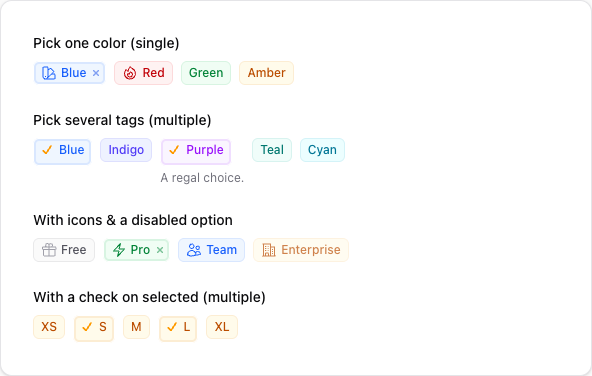
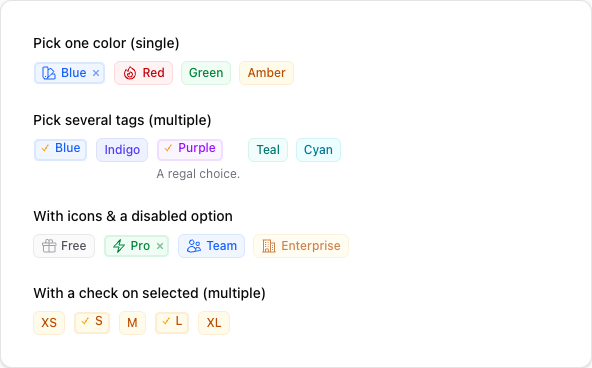
Keep chip height uniform when the selected check is shown
The check icon was rendered at the small (size-4) icon size inside a nested
label span, making selected chips taller than unselected ones. Render it at
extra-small (size-3, matching the dismiss button) in a single centered,
leading-none flex row so every chip stays 24px tall regardless of selection.
Refresh the affected screenshots.

diff --git a/resources/views/components/choosable-chips.blade.php b/resources/views/components/choosable-chips.blade.php
@@ -87,25 +87,24 @@
                         'cursor-pointer' => ! $shouldOptionBeDisabled,
                     ])
                 >
-                    <span class="fi-fo-choosable-chips-chip-label inline-flex items-center gap-1">
+                    <span class="fi-fo-choosable-chips-chip-label inline-flex items-center gap-x-1 leading-none">
                         @if ($isCheckSelected)
-                            <span
-                                x-show="isSelected({{ $jsValue }})"
-                                x-cloak
-                                class="fi-fo-choosable-chips-chip-check -ms-0.5 inline-flex shrink-0 items-center"
-                            >
-                                {{
-                                    \Filament\Support\generate_icon_html(
-                                        $checkIcon,
-                                        attributes: (new ComponentAttributeBag)
-                                            ->color(\Filament\Support\View\Components\BadgeComponent::class, $selectedColor),
-                                        size: \Filament\Support\Enums\IconSize::Small,
-                                    )
-                                }}
-                            </span>
+                            {{
+                                \Filament\Support\generate_icon_html(
+                                    $checkIcon,
+                                    attributes: (new ComponentAttributeBag)
+                                        ->color(\Filament\Support\View\Components\BadgeComponent::class, $selectedColor)
+                                        ->class(['fi-fo-choosable-chips-chip-check -ms-0.5'])
+                                        ->merge([
+                                            'x-show' => "isSelected({$jsValue})",
+                                            'x-cloak' => true,
+                                        ], escape: false),
+                                    size: \Filament\Support\Enums\IconSize::ExtraSmall,
+                                )
+                            }}
                         @endif
 
-                        {{ $label }}
+                        <span>{{ $label }}</span>
                     </span>
 
                     @if ($isDismissible && ! $isCheckSelected && ! $shouldOptionBeDisabled)
